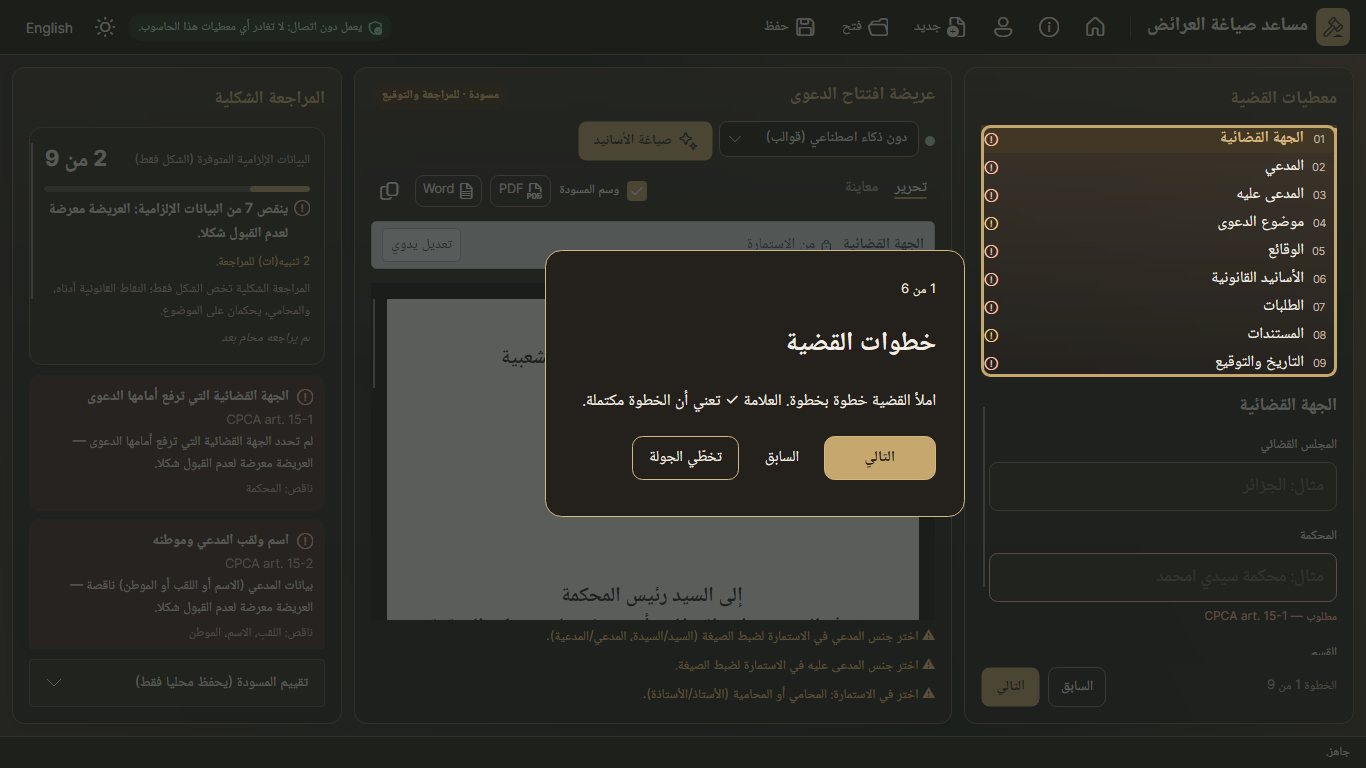
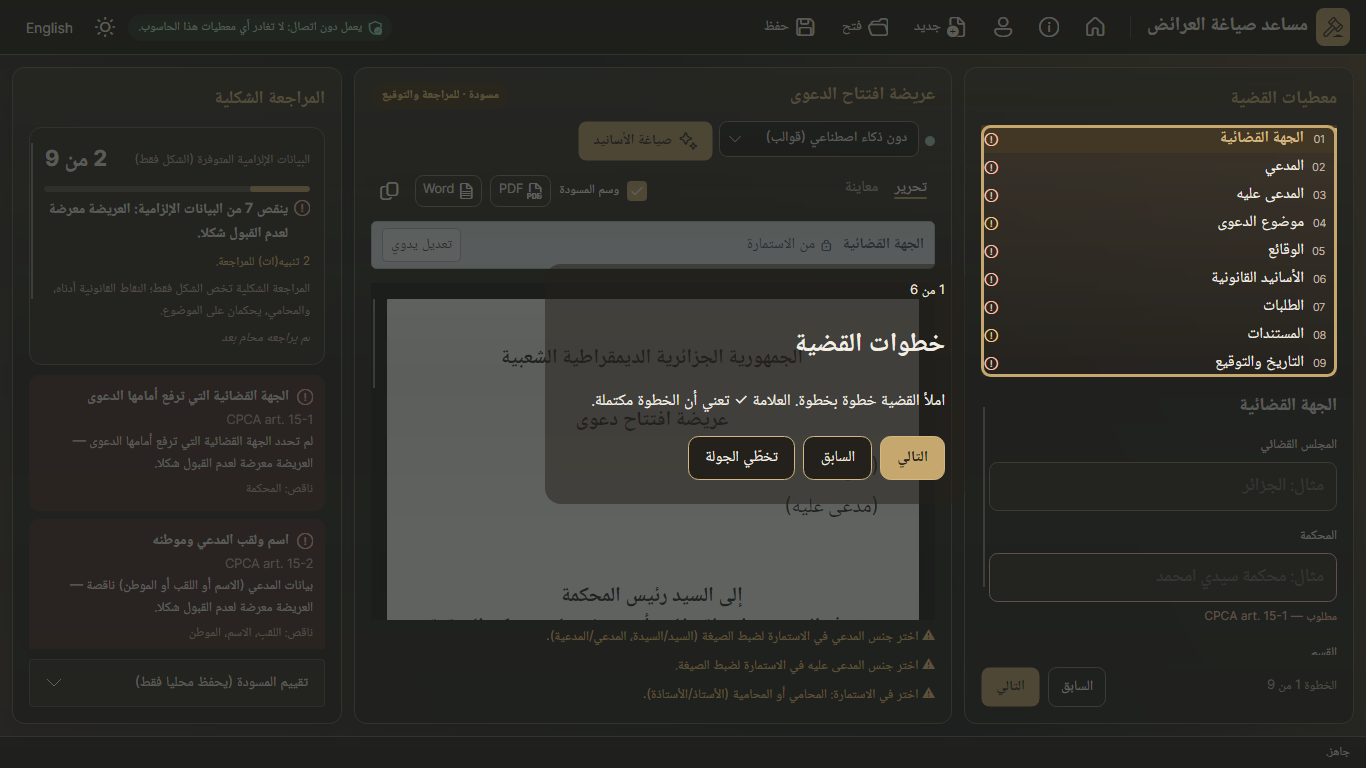
Align tour and offer with Home glass panel

Changed region(s): [[0.3997, 0.3125, 0.7072, 0.6875]]

diff --git a/tests/DzLegal.App.Tests/GuideVisualTests.cs b/tests/DzLegal.App.Tests/GuideVisualTests.cs
@@ -1,4 +1,6 @@
+using System.ComponentModel;
 using System.Runtime.InteropServices;
+using System.Windows.Input;
 using Avalonia;
 using Avalonia.Controls;
 using Avalonia.Headless;
@@ -9,7 +11,10 @@ using Avalonia.Media.Imaging;
 using Avalonia.Styling;
 using Avalonia.Threading;
 using Avalonia.VisualTree;
+using CommunityToolkit.Mvvm.Input;
 using DzLegal.App.Views;
+using DzLegal.Presentation.ViewModels;
+using DzLegal.Storage;
 using FluentIcons.Avalonia;
 
 namespace DzLegal.App.Tests;
@@ -122,16 +127,21 @@ public sealed class GuideVisualTests
             Show(window, display);
             var card = view.FindControl<Border>("TourOfferCard")!;
             AssertInside(window, card);
+            Assert.Equal(ColorOf(ResourceBrush(card, "SetupSurfaceBrush")), ColorOf(card.Background!));
+            Assert.IsType<BlurEffect>(view.FindControl<Border>("TourOfferBackground")!.Effect);
             var buttons = new[] { view.FindControl<Button>("AcceptTour")!, view.FindControl<Button>("DeclineTour")! };
             foreach (var control in buttons.Cast<Control>().Append(view.FindControl<TextBlock>("TourOfferTitle")!)) AssertInside(window, control);
             Assert.False(Bounds(buttons[0], window).Intersects(Bounds(buttons[1], window)));
+            Assert.Contains("home", buttons[0].Classes); Assert.Contains("primary", buttons[0].Classes);
+            Assert.Contains("home", buttons[1].Classes); Assert.DoesNotContain("primary", buttons[1].Classes);
+            Assert.Contains("home-title", view.FindControl<TextBlock>("TourOfferTitle")!.Classes);
             Capture(window, display, "phase1-tour-offer");
             CheckTypography(card);
-            CheckBorders(card, "WelcomeControlBrush");
+            CheckBorders(card, "SetupSurfaceBrush");
             if (IsContrast(display)) CheckContrast(window, card, display, "tour-offer");
             CheckKeyboardOrder(window, buttons);
             for (var index = 0; index < buttons.Length; index++)
-                CheckFocus(window, buttons[index], display, "WelcomeControlBrush", IsContrast(display) && index == 0);
+                CheckFocus(window, buttons[index], display, "SetupSurfaceBrush", IsContrast(display) && index == 0);
             Assert.Equal(0, yes); Assert.Equal(0, no);
             window.Close();
         }
@@ -149,28 +159,43 @@ public sealed class GuideVisualTests
             var priorStep = model.SelectedStep;
             model.StartTour(); Layout(window);
             var overlay = window.FindControl<TourOverlay>("GuideOverlay")!;
+            var backdrop = Assert.IsType<LinearGradientBrush>(overlay.FindResource("OnboardingTourBackdropBrush"));
+            Assert.All(backdrop.GradientStops, stop => Assert.True(Luminance(stop.Color) < 0.25, $"{display}: tour backdrop is not dark"));
             for (var stop = 0; stop < 6; stop++)
             {
                 var card = overlay.FindControl<Border>("TourCard")!;
                 AssertInside(window, card);
+                Assert.Equal(ColorOf(ResourceBrush(card, "SetupSurfaceBrush")), ColorOf(card.Background!));
+                Assert.Contains("home-note", overlay.FindControl<TextBlock>("TourCounter")!.Classes);
+                Assert.Contains("home-title", overlay.FindControl<TextBlock>("TourTitle")!.Classes);
+                Assert.Contains("home-text", overlay.FindControl<TextBlock>("TourText")!.Classes);
                 foreach (var name in new[] { "TourCounter", "TourTitle", "TourText", "TourNext", "TourBack", "TourSkip" })
                     AssertInside(window, overlay.FindControl<Control>(name)!);
                 var buttons = new[] { overlay.FindControl<Button>("TourNext")!, overlay.FindControl<Button>("TourBack")!, overlay.FindControl<Button>("TourSkip")! };
+                Assert.Contains("home", buttons[0].Classes); Assert.Contains("primary", buttons[0].Classes);
+                Assert.Contains("home", buttons[1].Classes); Assert.DoesNotContain("primary", buttons[1].Classes);
+                Assert.Contains("home", buttons[2].Classes); Assert.DoesNotContain("primary", buttons[2].Classes);
                 Assert.Equal(model.Tour.NextText, overlay.FindControl<TextBlock>("TourNextLabel")!.Text);
                 Assert.Equal(stop > 0, buttons[1].IsEffectivelyEnabled);
                 for (var first = 0; first < buttons.Length; first++)
                 for (var second = first + 1; second < buttons.Length; second++)
                     Assert.False(Bounds(buttons[first], window).Intersects(Bounds(buttons[second], window)));
-                if (stop is 0 or 3) Capture(window, display, "phase1-tour" + (stop + 1));
+                if (overlay.HighlightBounds is { } highlight)
+                {
+                    var cardRect = new Rect(Canvas.GetLeft(card), Canvas.GetTop(card), card.Bounds.Width, card.Bounds.Height);
+                    Assert.False(cardRect.Intersects(highlight), $"{display}/stop {stop + 1}: card {cardRect} covers anchor {highlight}");
+                }
+                if (stop is 0 or 3 or 5) Capture(window, display, "phase1-tour" + (stop + 1));
                 CheckTypography(card);
-                CheckBorders(card, "WelcomeControlBrush");
+                CheckBorders(card, "SetupSurfaceBrush");
                 if (IsContrast(display)) CheckContrast(window, card, display, "tour-" + (stop + 1));
                 var shade = overlay.FindControl<Canvas>("Shade")!;
                 var outline = Assert.IsType<Border>(shade.Children.Last());
-                var gold = ColorOf(ResourceBrush(overlay, "WelcomeMarkBrush"));
+                var gold = ColorOf(ResourceBrush(overlay, "OnboardingHighlightBrush"));
                 Assert.Equal(gold, ColorOf(outline.BorderBrush!));
                 Assert.Equal(((Thickness)overlay.FindResource("OnboardingFocusThickness")!).Left, outline.BorderThickness.Left);
                 Assert.Equal(((CornerRadius)overlay.FindResource("ControlRadius")!).TopLeft, outline.CornerRadius.TopLeft);
+                Assert.All(shade.Children.OfType<Border>().Where(border => !ReferenceEquals(border, outline)), dim => Assert.Same(backdrop, dim.Background));
                 var stable = shade.Children.ToArray();
                 Layout(window); overlay.PositionCard(); Layout(window);
                 Assert.Equal(stable, shade.Children.ToArray());
@@ -181,7 +206,7 @@ public sealed class GuideVisualTests
                 }
                 var enabled = buttons.Where(button => button.IsEffectivelyEnabled).ToArray();
                 for (var index = 0; index < enabled.Length; index++)
-                    CheckFocus(window, enabled[index], display, "WelcomeControlBrush", IsContrast(display) && stop == 0 && index == 0);
+                    CheckFocus(window, enabled[index], display, "SetupSurfaceBrush", IsContrast(display) && stop == 0 && index == 0);
                 if (stop == 0) CheckKeyboardOrder(window, [buttons[0], buttons[2]]);
                 window.KeyPress(display.Language == "ar" ? Key.Left : Key.Right, RawInputModifiers.None,
                     display.Language == "ar" ? PhysicalKey.ArrowLeft : PhysicalKey.ArrowRight, null);
@@ -194,6 +219,47 @@ public sealed class GuideVisualTests
             Assert.False(model.Tour.IsOpen);
             window.Close();
         }
+    }
+
+    [AvaloniaFact]
+    public void HomeAndTourUseTheSameFamilySurfaceAndButtons()
+    {
+        foreach (var display in ContrastDisplays())
+        {
+            var folder = Directory.CreateTempSubdirectory("dzlegal-guide-home-");
+            try
+            {
+                new ProfileStore(folder.FullName).Save(new LawyerProfile { NameAr = "محامية افتراضية", Gender = "female" });
+                using var model = new HomeViewModel(new RecentCasesStore(folder.FullName), new ProfileStore(folder.FullName),
+                    () => Task.CompletedTask, new VisualWorkspace(), display.Language);
+                var view = new HomeView { DataContext = model };
+                var window = new Window { Content = view };
+                Show(window, display);
+                var panel = view.GetVisualDescendants().OfType<Border>().First(border => border.Classes.Contains("home-panel"));
+                Assert.Equal(ColorOf(ResourceBrush(panel, "SetupSurfaceBrush")), ColorOf(panel.Background!));
+                var newButton = view.FindControl<Button>("HomeNew")!;
+                Assert.Equal(ColorOf(ResourceBrush(newButton, "WelcomeGoldBrush")), ColorOf(newButton.Background!));
+                var tourButton = view.FindControl<Button>("HomeTour")!;
+                Assert.Equal(ColorOf(ResourceBrush(tourButton, "WelcomeControlBrush")), ColorOf(tourButton.Background!));
+                Assert.Contains(view.GetVisualDescendants().OfType<TextBlock>(), text => text.Classes.Contains("home-title"));
+                Capture(window, display, "phase1-home");
+                window.Close();
+            }
+            finally { folder.Delete(true); }
+        }
+    }
+
+    private sealed class VisualWorkspace : IHomeWorkspace
+    {
+        public event PropertyChangedEventHandler? PropertyChanged { add { } remove { } }
+        public ICommand? NewCommand { get; } = new RelayCommand(() => { });
+        public ICommand? OpenCommand { get; } = new RelayCommand(() => { });
+        public ICommand? RestoreLastSessionCommand => null;
+        public ICommand? DismissRecoveryCommand => null;
+        public bool HasRecoverableDraft => false;
+        public bool HasOpenCase => false;
+        public Func<string, Task>? OpenRecent => null;
+        public void ShowCase() { }
     }
 
     private static void CheckKeyboardOrder(Window window, Button[] buttons)
@@ -230,7 +296,11 @@ public sealed class GuideVisualTests
     private static void CheckTypography(Control root)
     {
         var text = root.GetVisualDescendants().OfType<TextBlock>().Where(control => control.IsEffectivelyVisible && !control.GetVisualAncestors().OfType<SymbolIcon>().Any());
-        foreach (var label in text) Assert.True(label.FontSize >= (label.Classes.Contains("onboarding-secondary") ? 12.5 : 14));
+        foreach (var label in text)
+        {
+            var secondary = label.Classes.Contains("onboarding-secondary") || label.Classes.Contains("home-note");
+            Assert.True(label.FontSize >= (secondary ? 12.5 : 14));
+        }
     }
     private static void CheckBorders(Control root, string surfaceKey)
     {
@@ -245,8 +315,9 @@ public sealed class GuideVisualTests
         foreach (var point in new[] { new Point(rect.Left - 2, rect.Center.Y), new Point(rect.Right + 2, rect.Center.Y), new Point(rect.Center.X, rect.Top - 2), new Point(rect.Center.X, rect.Bottom + 2) })
         {
             if (point.X < 0 || point.Y < 0 || point.X >= pixels.Width / display.Scale || point.Y >= pixels.Height / display.Scale) continue;
-            var ratio = Ratio(ink, pixels.At(point.X, point.Y, display.Scale));
-            Assert.True(ratio >= 3, $"{display}: {label} contrast {ratio:F2}");
+            var background = pixels.At(point.X, point.Y, display.Scale);
+            var ratio = Ratio(ink, background);
+            Assert.True(ratio >= 3, $"{display}: {label} contrast {ratio:F2} at {point}, ink {ink}, background {background}, rect {rect}");
         }
     }
     private static void CheckContrast(Window window, Control root, Display display, string screen)
@@ -279,7 +350,9 @@ public sealed class GuideVisualTests
                 for (var y = Math.Max(0, (int)(item.Rect.Top * display.Scale)); y < Math.Min(pixels.Height, (int)(item.Rect.Bottom * display.Scale)); y++)
                 for (var x = Math.Max(0, (int)(item.Rect.Left * display.Scale)); x < Math.Min(pixels.Width, (int)(item.Rect.Right * display.Scale)); x++)
                     minimum = Math.Min(minimum, Ratio(item.Ink, pixels.Pixel(x, y), item.Opacity));
-                Assert.True(minimum >= item.Required, $"{display}/{screen}: {item.Control.Name ?? item.Control.GetType().Name} contrast {minimum:F2}, required {item.Required}");
+                var owner = item.Control.GetVisualAncestors().OfType<Button>().FirstOrDefault()?.Name;
+                var centre = pixels.At(item.Rect.Center.X, item.Rect.Center.Y, display.Scale);
+                Assert.True(minimum >= item.Required, $"{display}/{screen}: {item.Control.Name ?? item.Control.GetType().Name} ({owner}) contrast {minimum:F2}, required {item.Required}, ink {item.Ink}, centre {centre}");
                 measurements.Add($"{item.Control.Name ?? item.Control.GetType().Name}: {minimum:F2}:1");
             }
             if (Environment.GetEnvironmentVariable("DZLEGAL_SCREENSHOTS") is { Length: > 0 } folder)
@@ -296,9 +369,9 @@ public sealed class GuideVisualTests
     }
     private static Color ColorOf(IBrush brush) => Assert.IsAssignableFrom<ISolidColorBrush>(brush).Color;
     private static readonly double[] Linear = Enumerable.Range(0, 256).Select(channel => channel / 255d is var value && value <= .04045 ? value / 12.92 : Math.Pow((value + .055) / 1.055, 2.4)).ToArray();
+    private static double Luminance(Color color) => .2126 * Linear[color.R] + .7152 * Linear[color.G] + .0722 * Linear[color.B];
     private static double Ratio(Color ink, Color background, double opacity = 1)
     {
-        static double Luminance(Color color) => .2126 * Linear[color.R] + .7152 * Linear[color.G] + .0722 * Linear[color.B];
         var alpha = ink.A / 255d * opacity;
         var foreground = alpha >= 1 ? ink : Color.FromRgb((byte)(ink.R * alpha + background.R * (1 - alpha)), (byte)(ink.G * alpha + background.G * (1 - alpha)), (byte)(ink.B * alpha + background.B * (1 - alpha)));
         var first = Luminance(foreground); var second = Luminance(background);

diff --git a/src/DzLegal.App/Views/TourOverlay.axaml.cs b/src/DzLegal.App/Views/TourOverlay.axaml.cs
@@ -126,23 +126,37 @@ public partial class TourOverlay : UserControl
             var outline = new Border { Width = t.Width, Height = t.Height };
             outline.Bind(Border.BorderThicknessProperty, this.GetResourceObservable("OnboardingFocusThickness"));
             outline.Bind(Border.CornerRadiusProperty, this.GetResourceObservable("ControlRadius"));
-            outline.Bind(Border.BorderBrushProperty, this.GetResourceObservable("WelcomeMarkBrush"));
+            outline.Bind(Border.BorderBrushProperty, this.GetResourceObservable("OnboardingHighlightBrush"));
             Canvas.SetLeft(outline, t.X); Canvas.SetTop(outline, t.Y); Shade.Children.Add(outline);
         }
         else Dim(new Rect(Bounds.Size));
         var edgeSpace = (double)this.FindResource("OnboardingTourEdgeSpace")!;
+        var minWidth = (double)this.FindResource("OnboardingTourMinWidth")!;
         var anchorGap = (double)this.FindResource("OnboardingTourAnchorGap")!;
-        TourCard.Width = Math.Min(TourCard.MaxWidth, Bounds.Width - edgeSpace);
-        TourCard.Measure(new Size(TourCard.Width, Bounds.Height - edgeSpace));
+        var maxWidth = Math.Min(TourCard.MaxWidth, Bounds.Width - edgeSpace * 2);
+        TourCard.Width = maxWidth;
+        TourCard.Measure(new Size(maxWidth, Bounds.Height - edgeSpace * 2));
         var size = TourCard.DesiredSize;
         var x = (Bounds.Width - size.Width) / 2;
         var y = (Bounds.Height - size.Height) / 2;
         if (target is { } anchor)
         {
-            if (anchor.Right + anchorGap + size.Width <= Bounds.Width - anchorGap) x = anchor.Right + anchorGap;
-            else if (anchor.Left - anchorGap - size.Width >= anchorGap) x = anchor.Left - anchorGap - size.Width;
-            else if (anchor.Bottom + anchorGap + size.Height <= Bounds.Height - anchorGap) y = anchor.Bottom + anchorGap;
-            else if (anchor.Top - anchorGap - size.Height >= anchorGap) y = anchor.Top - anchorGap - size.Height;
+            var rightSpace = Bounds.Width - edgeSpace - (anchor.Right + anchorGap);
+            var leftSpace = anchor.Left - anchorGap - edgeSpace;
+            if (rightSpace >= size.Width) x = anchor.Right + anchorGap;
+            else if (leftSpace >= size.Width) x = anchor.Left - anchorGap - size.Width;
+            else if (anchor.Bottom + anchorGap + size.Height <= Bounds.Height - edgeSpace) y = anchor.Bottom + anchorGap;
+            else if (anchor.Top - anchorGap - size.Height >= edgeSpace) y = anchor.Top - anchorGap - size.Height;
+            else if (Math.Max(rightSpace, leftSpace) >= minWidth)
+            {
+                // A large anchor can leave less than the preferred card width. Narrow the card
+                // on the wider side instead of covering the control the lawyer must see.
+                TourCard.Width = Math.Max(rightSpace, leftSpace);
+                TourCard.Measure(new Size(TourCard.Width, Bounds.Height - edgeSpace * 2));
+                size = TourCard.DesiredSize;
+                x = rightSpace >= leftSpace ? anchor.Right + anchorGap : anchor.Left - anchorGap - size.Width;
+                y = Math.Max(edgeSpace, Math.Min((Bounds.Height - size.Height) / 2, Bounds.Height - edgeSpace - size.Height));
+            }
         }
         Canvas.SetLeft(TourCard, x); Canvas.SetTop(TourCard, y);
     }

diff --git a/docs/GUIDE-RELEASE.md b/docs/GUIDE-RELEASE.md
@@ -159,16 +159,21 @@ The reference family uses the bundled photograph and WelcomeOverlayBrush, warm W
 Previously Help was a smaller 900 x 600 window with a workbench canvas, an opaque 12 px-corner card, 18/32 body typography, text-only index rows and a separate tour footer. The offer lacked the photograph/overlay and used a 24 px regular title. The tour used a 22 px title, workbench surfaces/counter colours, 8 px button corners and green primary/highlight styling in light mode. Guide button padding and focus colours also differed from onboarding.
 
 - Help now uses Home's window dimensions, page margins, blurred photograph, overlay, header and content-panel treatment. Seven consistent icon rows and the existing tour action share the index card. Page text wraps in a reading column and scrolls inside the card; Back to help stays inside its footer.
-- The offer uses the Welcome/setup photograph and overlay plus the existing confirmation-card surface and geometry. The tour card uses that same confirmation treatment, family title/body/counter typography, gold Next/Finish and secondary Back/Skip buttons.
+- The offer uses the Welcome/setup photograph, blurred by the same 8 px as Home, plus `WelcomeOverlayBrush` and one Home glass card. The tour card uses the same Home glass panel (`SetupSurfaceBrush`, 16 px radius, `20,16` padding, no border or shadow), Home title/body/counter typography and the same 44 px Home gold primary and outlined secondary button classes. The extra offer Info icon was removed so the dialog is a single Home-style card.
 - Existing Welcome palette, UiFont, regular Fluent icons and the single bundled photograph are reused. No font, icon package or image file was added or duplicated. The photograph keeps its original orientation in both reading directions.
 - A small opaque WelcomeControlBrush well protects the Help heading icon from the bright part of the photograph. Pixel checks found 2.84:1 without it in dark mode; the corrected icon meets the required contrast.
 - Primary captions explicitly use WelcomeButtonTextBrush inside the workbench, whose inherited text styling otherwise interfered with the tour caption in dark mode. Next/Finish still reads the same NextText binding and invokes the same command.
-- The highlight uses the existing WelcomeMarkBrush gold/bronze family token in both themes. The dimmed backdrop uses a dedicated shared brush. Highlight discovery, anchors, fallback, positioning equations, commands, keyboard handling, focus return and the tour view model are unchanged; existing spacing constants are read from visual resources.
+- The tour dims the live workbench with a dark gradient built from the existing Home dark-overlay stops (`#B81D201E` / `#B31D201E`) in both themes, replacing the light `#B8F2F0EA` veil. The highlighted anchor keeps a static 3 px gold ring. The light theme now uses `OnboardingHighlightBrush` `#D2B981` (the existing light-family logo/edge gold) because the previous `WelcomeMarkBrush` `#786039` measured only 1.03:1 against the new dark backdrop; dark uses `#C6A76D`.
+- The card stays next to the anchor and flips side. For a large anchor that leaves less than the preferred 420 px side (for example the Legal grounds panel at 125% scaling), the card narrows to the wider free side instead of covering the anchor. The card never intersects the highlight at any of the sixteen display modes; the anchor names, commands, keyboard handling, focus return and tour view model are unchanged.
 - The highlight/card/backdrop remain static. No animation was added, so reduced motion requires no alternate animation path. Repeated layouts retain the same highlight visuals, avoiding flicker.
+
+### Owner decisions
+
+The initial brief asked for a glass card with a thin border and shadow, the exact 58 px "New petition" button style, and an outlined disabled Back. Home has no bordered/shadowed glass panel, so the owner chose the actual Home glass panel: `SetupSurfaceBrush`, 16 px radius, `20,16` padding, no border and no shadow. Next/Finish and the offer's Yes use the 44 px Home `primary` gold style (the same one as Resume/Confirm), not the 58 px main-action. Disabled Back keeps its 1 px outline and uses secondary text instead of Fluent's borderless disabled look.
 
 ### Shared resources added
 
-Added `OnboardingPhotograph` in App.axaml, referencing the existing `Assets/Images/welcome-bg.jpg` once. Workbench.axaml exposes 35 visual resources so the Help/tour views reference family values rather than carrying separate pixel values:
+Added `OnboardingPhotograph` in App.axaml, referencing the existing `Assets/Images/welcome-bg.jpg` once. Workbench.axaml now exposes 37 visual resources so the Help/tour views reference family values rather than carrying separate pixel values:
 
 | Group | Resource keys |
 | --- | --- |
@@ -177,43 +182,46 @@ Added `OnboardingPhotograph` in App.axaml, referencing the existing `Assets/Imag
 | Shape / spacing | OnboardingEdgeThickness, OnboardingFocusThickness, OnboardingCardRadius, OnboardingButtonRadius, OnboardingPageGap, OnboardingDialogGap |
 | Typography | OnboardingTitleSize, OnboardingBodySize, OnboardingBodyLineHeight, OnboardingSecondarySize, OnboardingButtonSize |
 | Controls / content | OnboardingButtonHeight, OnboardingPrimaryMinWidth, OnboardingContentWidth, OnboardingReadingWidth, OnboardingDialogWidth, OnboardingIconSize, OnboardingBackgroundBlur |
-| Tour geometry | OnboardingTourWidth, OnboardingTourEdgeSpace, OnboardingTourAnchorGap |
-| Dimming | OnboardingTourBackdropBrush, with light/dark variants using the existing family tones |
+| Tour geometry | OnboardingTourWidth, OnboardingTourMinWidth, OnboardingTourEdgeSpace, OnboardingTourAnchorGap |
+| Dimming / highlight | OnboardingTourBackdropBrush (dark gradient in both themes), OnboardingHighlightBrush (light `#D2B981`, dark `#C6A76D`) |
 
-Shared `onboarding-*` styles in Workbench.axaml cover cards, dialogs, text, buttons, captions and focus. Guide.axaml references those styles and adds the icon treatment. Existing Welcome/setup/Home views and their appearance are unchanged. Existing ControlRadius and all Welcome* colour/font resources remain authoritative.
+Shared `onboarding-*` styles in Workbench.axaml cover cards, dialogs, text, buttons, captions and focus. Home's `home-panel`, `home-title`, `home-text`, `home-note`, `home` and `home primary` treatments moved from HomeView into the same shared stylesheet so the tour and offer reference them directly rather than copying values. Guide.axaml references those styles and adds the icon treatment. Normal Welcome/setup/Home states are unchanged; Home's disabled outline is now explicit and shared. Existing ControlRadius and all Welcome* colour/font resources remain authoritative.
 
 ### Tests and screenshot review
 
-Added three tests in `GuideVisualTests`; **no existing test was changed, deleted, skipped or weakened**:
+Added four tests in `GuideVisualTests`; **no test was deleted or skipped**. The three existing visual tests were extended for the new Home surface: their border/focus surface key is `SetupSurfaceBrush` instead of `WelcomeControlBrush`, and `home-note` (13 px) is accepted as secondary text. Every previous check remains:
 
 - `HelpIndexAndAllSevenPagesFitAndMeetRenderedContrastInEveryDisplayMode`
 - `TourOfferUsesTheFamilyCardAndButtonsWithoutClippingOrLowContrast`
 - `EveryTourStopFitsAndMeetsContrastWithGoldHighlightAndStableBackdrop`
+- `HomeAndTourUseTheSameFamilySurfaceAndButtons`
 
-Every layout, clipping, typography, border, Tab-order, arrow, Escape and focus-ring check covers all sixteen display modes: Arabic/English, light/dark, 1366 x 768 and 1920 x 1080, at 100% and 125% scaling. All seven Help pages are checked, including full paragraph retention and scrolling. All six tour stops are checked, including Next/Finish text, enabled/disabled Back, control bounds, button separation and gold highlight stability. Existing tour state/focus restoration tests remain intact.
+Every layout, clipping, typography, border, Tab-order, arrow, Escape and focus-ring check covers all sixteen display modes: Arabic/English, light/dark, 1366 x 768 and 1920 x 1080, at 100% and 125% scaling. All seven Help pages are checked, including full paragraph retention and scrolling. All six tour stops are checked, including Next/Finish text, enabled/disabled Back, control bounds, button separation, card/anchor non-overlap, dark-gradient stops and gold highlight stability. The new Home test checks that Home, the offer and the tour resolve the same `SetupSurfaceBrush` panel, `WelcomeGoldBrush` primary, `WelcomeControlBrush` secondary and `home-title` styles, and captures the Home comparison images. Existing tour state/focus restoration tests remain intact.
 
 Pixel contrast is measured on the four language/theme combinations at 1366 x 768 and 100% scaling. Size and scale change geometry, not palette, so these four cover every colour the screens can show. Measuring the other twelve full frames was redundant, and hundreds of full-frame headless Skia captures eventually blocked inside `SurfaceRenderTarget.Blit`; the four-combination pass completes reliably while still checking every rendered colour combination.
 
 Contrast follows WelcomeTests: hide foreground text/icons, render and read the actual background pixels, then compute WCAG luminance ratios, including opacity. This covers text over the real photograph and composited card surfaces. Button borders are checked against their rendered surroundings; focus checks sample the visible Fluent focus adorner; highlight checks use its rendered surroundings. Thresholds remain 4.5:1 for text and 3:1 for icons/borders/focus/highlight. Body text is 16 px, secondary text 13 px and buttons 15 px.
 
-Twenty final 1366 x 768 captures were opened and inspected individually. The sixteen existing Help/tour-stop images are replaced; four offer images are added. Sample-case and Phase 0 captures are unchanged.
+Twenty-eight final 1366 x 768 captures were opened and inspected individually. The sixteen existing Help/tour-stop images and the four offer images are replaced; four final-stop images and four Home comparison images are added. Sample-case and Phase 0 captures are unchanged.
 
 | Screen | Arabic light | Arabic dark | English light | English dark |
 | --- | --- | --- | --- | --- |
+| Home | [View](images/guide/phase1-home-ar-light-1366x768.png) | [View](images/guide/phase1-home-ar-dark-1366x768.png) | [View](images/guide/phase1-home-en-light-1366x768.png) | [View](images/guide/phase1-home-en-dark-1366x768.png) |
 | Help index | [View](images/guide/phase1-help-index-ar-light-1366x768.png) | [View](images/guide/phase1-help-index-ar-dark-1366x768.png) | [View](images/guide/phase1-help-index-en-light-1366x768.png) | [View](images/guide/phase1-help-index-en-dark-1366x768.png) |
 | Help page B4 | [View](images/guide/phase1-help-page-ar-light-1366x768.png) | [View](images/guide/phase1-help-page-ar-dark-1366x768.png) | [View](images/guide/phase1-help-page-en-light-1366x768.png) | [View](images/guide/phase1-help-page-en-dark-1366x768.png) |
 | Tour offer | [View](images/guide/phase1-tour-offer-ar-light-1366x768.png) | [View](images/guide/phase1-tour-offer-ar-dark-1366x768.png) | [View](images/guide/phase1-tour-offer-en-light-1366x768.png) | [View](images/guide/phase1-tour-offer-en-dark-1366x768.png) |
 | Tour stop 1 | [View](images/guide/phase1-tour1-ar-light-1366x768.png) | [View](images/guide/phase1-tour1-ar-dark-1366x768.png) | [View](images/guide/phase1-tour1-en-light-1366x768.png) | [View](images/guide/phase1-tour1-en-dark-1366x768.png) |
 | Tour stop 4 | [View](images/guide/phase1-tour4-ar-light-1366x768.png) | [View](images/guide/phase1-tour4-ar-dark-1366x768.png) | [View](images/guide/phase1-tour4-en-light-1366x768.png) | [View](images/guide/phase1-tour4-en-dark-1366x768.png) |
+| Tour stop 6 | [View](images/guide/phase1-tour6-ar-light-1366x768.png) | [View](images/guide/phase1-tour6-ar-dark-1366x768.png) | [View](images/guide/phase1-tour6-en-light-1366x768.png) | [View](images/guide/phase1-tour6-en-dark-1366x768.png) |
 
-Native verification launched the Release build (`dotnet run --project src/DzLegal.App -c Release --no-build`) and used Windows UI Automation to open Help, open the B4 page, return to the index and close Help with Escape, then start the tour from Home and leave it with Escape. The remaining Help pages and tour stops are exercised by the rendered tests. The per-user profile, preferences, setup marker and draft files were backed up before the launch and restored byte-for-byte afterwards, with matching SHA-256 hashes; no user file was deleted or left changed.
+Native verification launched the built Release executable and used Windows UI Automation to open Home, start the tour from Home, advance through stops 1, 4 and 6 (counter and title read back, last button read `Finish`) and close it with Escape. The offer dialog, the remaining tour stops and every Help page are exercised by the rendered tests. The per-user profile, preferences, setup marker and draft files were backed up before the launch and restored byte-for-byte afterwards, with matching SHA-256 hashes; no user file was deleted or left changed.
 
 ### Verification
 
 - Full Release build: **0 warnings, 0 errors**.
-- Complete Release suite: **877 passed, 0 failed, 0 skipped**; App 253, Drafting 396, Law 113, FormEngine 67, Storage 18, Documents 6, Web 24. Every test remains enabled.
-- The twenty captures were regenerated from the final source; the Help images are byte-identical to the committed captures, and every image was opened and inspected in both reading directions and both themes.
+- Complete Release suite: **878 passed, 0 failed, 0 skipped**; App 254, Drafting 396, Law 113, FormEngine 67, Storage 18, Documents 6, Web 24. Every test remains enabled.
+- The twenty-eight captures were regenerated from the final source; the Help images are byte-identical to the committed captures, and every image was opened and inspected in both reading directions and both themes.
 
 ### Scope
 
-Production changes are limited to App.axaml, Styles/Workbench.axaml, Styles/Guide.axaml, HelpWindow.axaml, TourOfferView.axaml, TourOverlay.axaml and its visual resource assignments in TourOverlay.axaml.cs. Outside those front-end files, only the new visual tests, this report and the twenty requested PNGs changed. No resx, view model, wording, engine, safety rule, tour logic/anchor, sample or web-demo source changed. No dependency, new project, runtime internet source or asset file was introduced.
+This follow-up's production changes are limited to Styles/Workbench.axaml, Views/HomeView.axaml, TourOfferView.axaml, TourOverlay.axaml and the visual positioning/resource assignments in TourOverlay.axaml.cs. The earlier App.axaml, Styles/Guide.axaml and HelpWindow.axaml work remains from the previous commit. Outside those front-end files, only `GuideVisualTests`, this report and the requested PNGs changed. No resx, view model, wording, engine, safety rule, anchor name or command, sample or web-demo source changed. The card-positioning fallback is visual layout only. No dependency, new project, runtime internet source or asset file was introduced.
